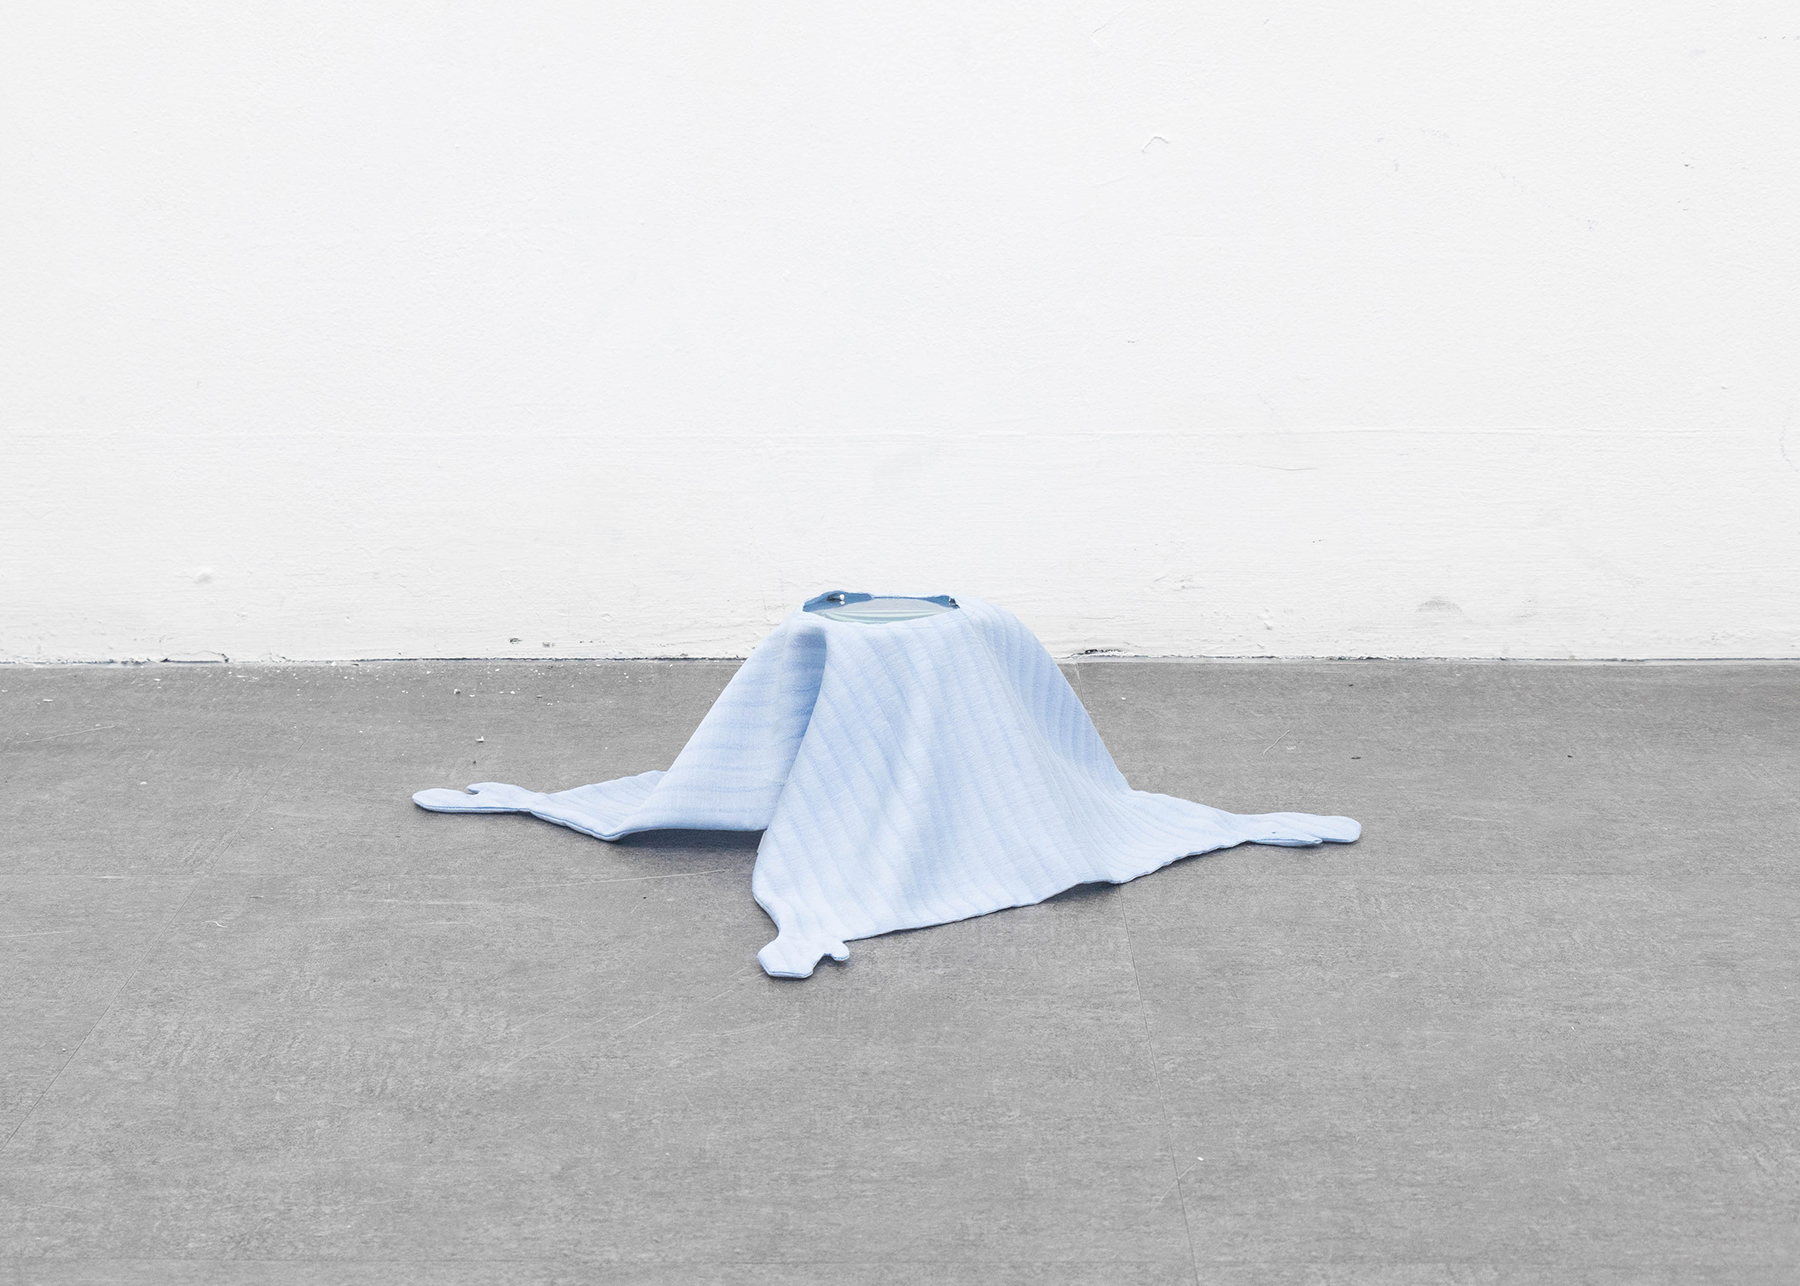
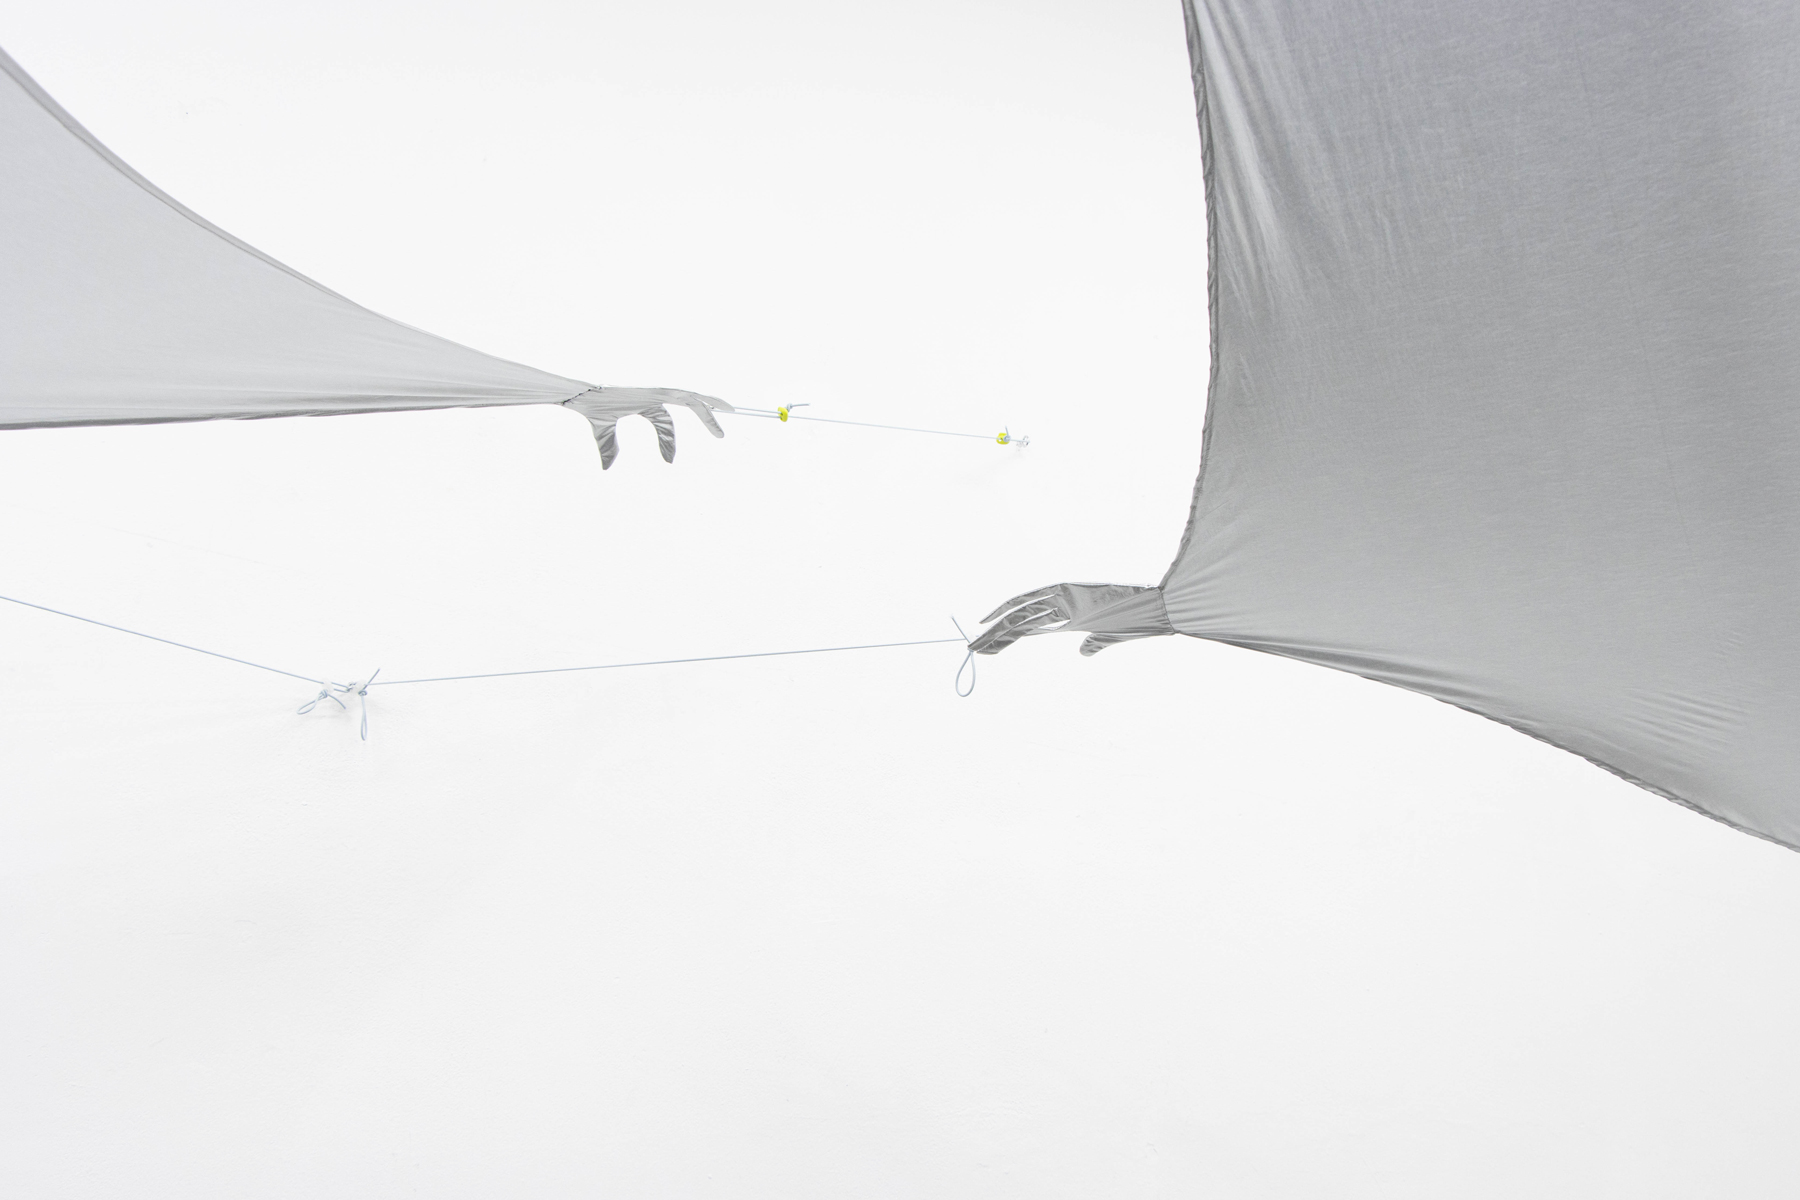
0714_selected

diff --git a/SelectedWorks.html b/SelectedWorks.html
@@ -70,7 +70,15 @@
             <div class="project">
                     <img src="images/stepbystep_5.jpg" alt="exhibition1" class="responsive">
                     <div class="caption">설치 장면 (2025)</div>
+                    <img src="images/pajama_small_1.jpg" alt="exhibition1" class="responsive">
+            </div>
+            <div class="project">
                     <img src="images/pajama_1.jpg" alt="exhibition1" class="responsive">
+                    <img src="images/pajama_2.jpg" alt="exhibition1" class="responsive">
+                    <img src="images/pajama_3.jpg" alt="exhibition1" class="responsive">
+                    <img src="images/pajama_4.jpg" alt="exhibition1" class="responsive">
+                    <img src="images/pajama_5.jpg" alt="exhibition1" class="responsive">
+                    <div class="caption">Pajama (2025)</div>
             </div>
         </section>
     </main>
